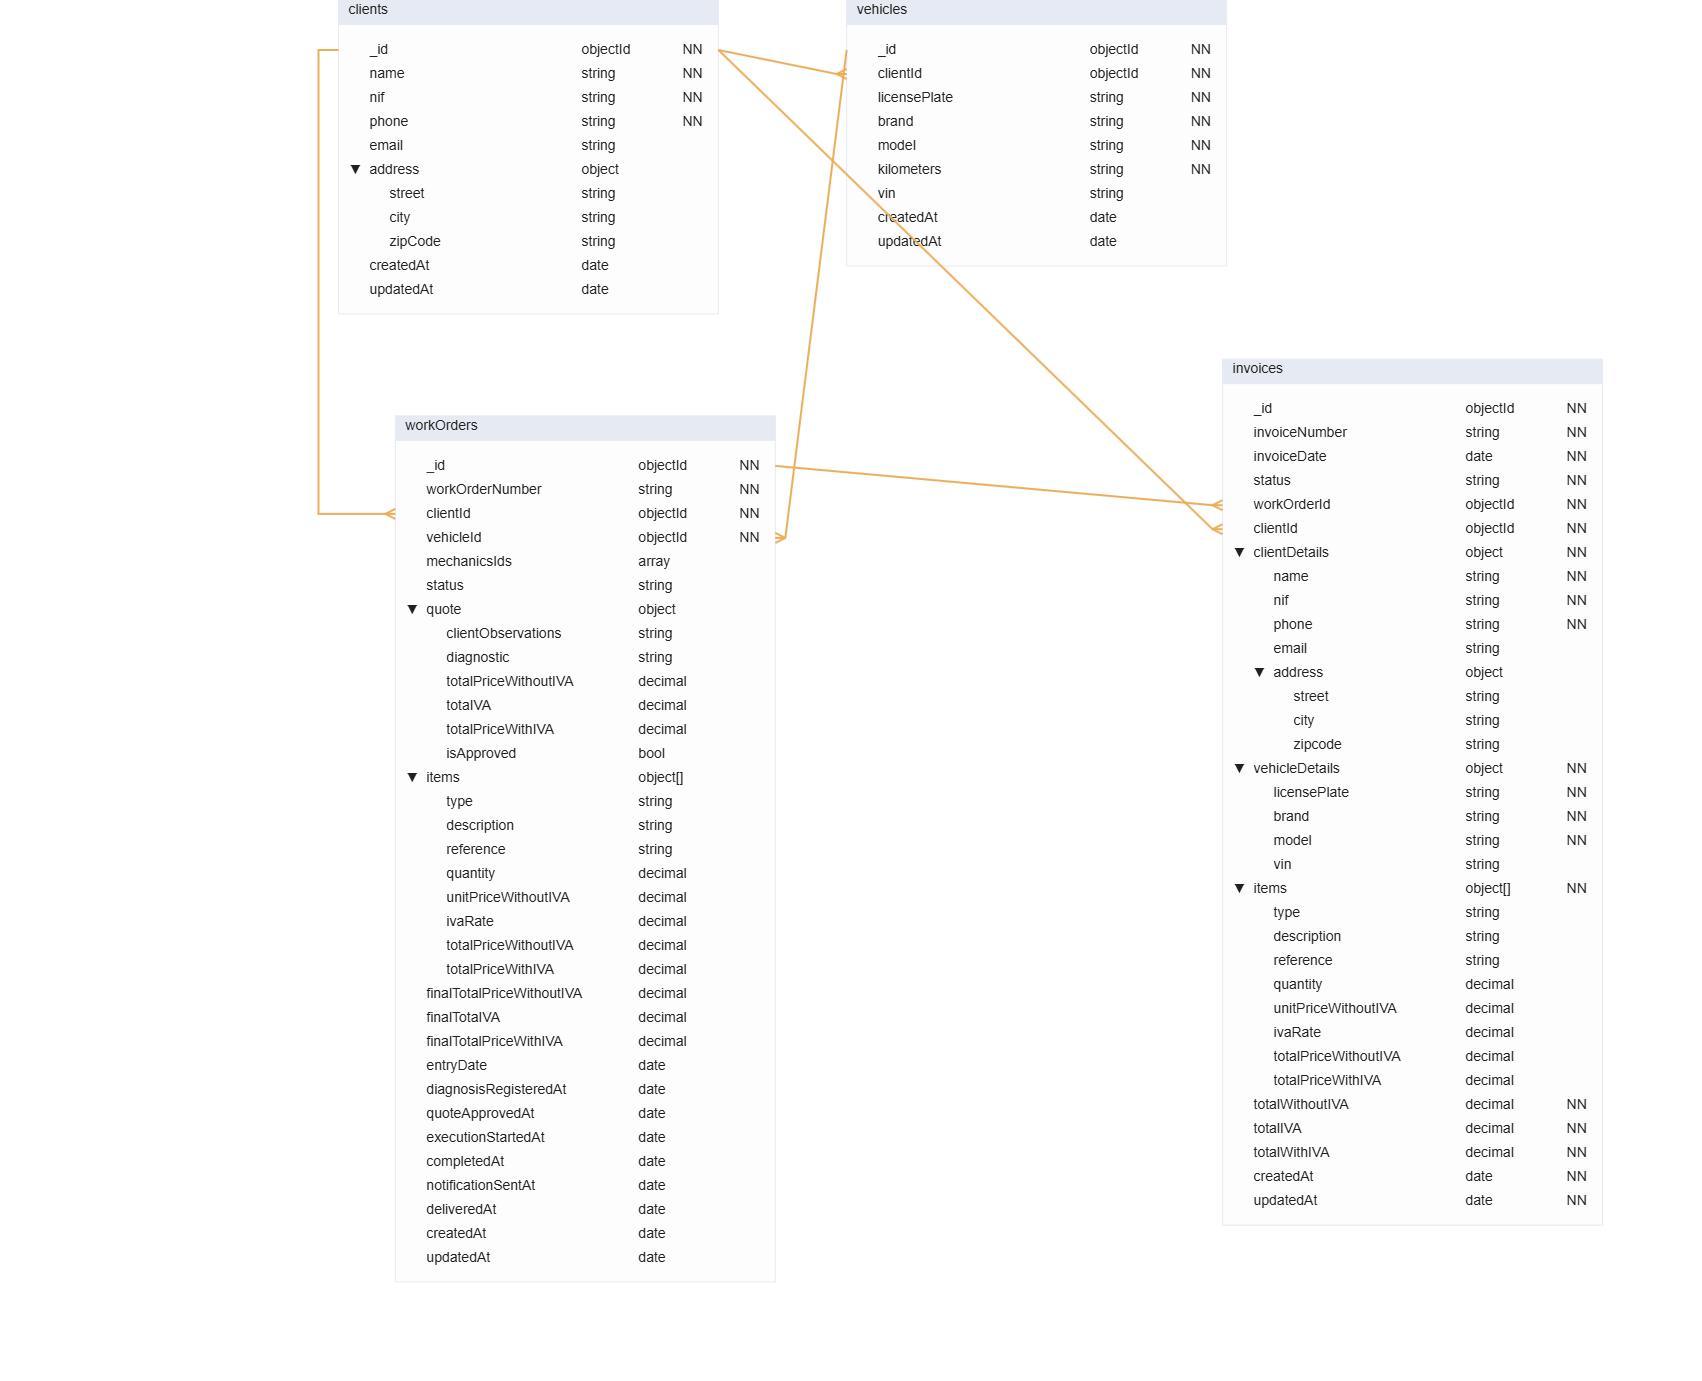
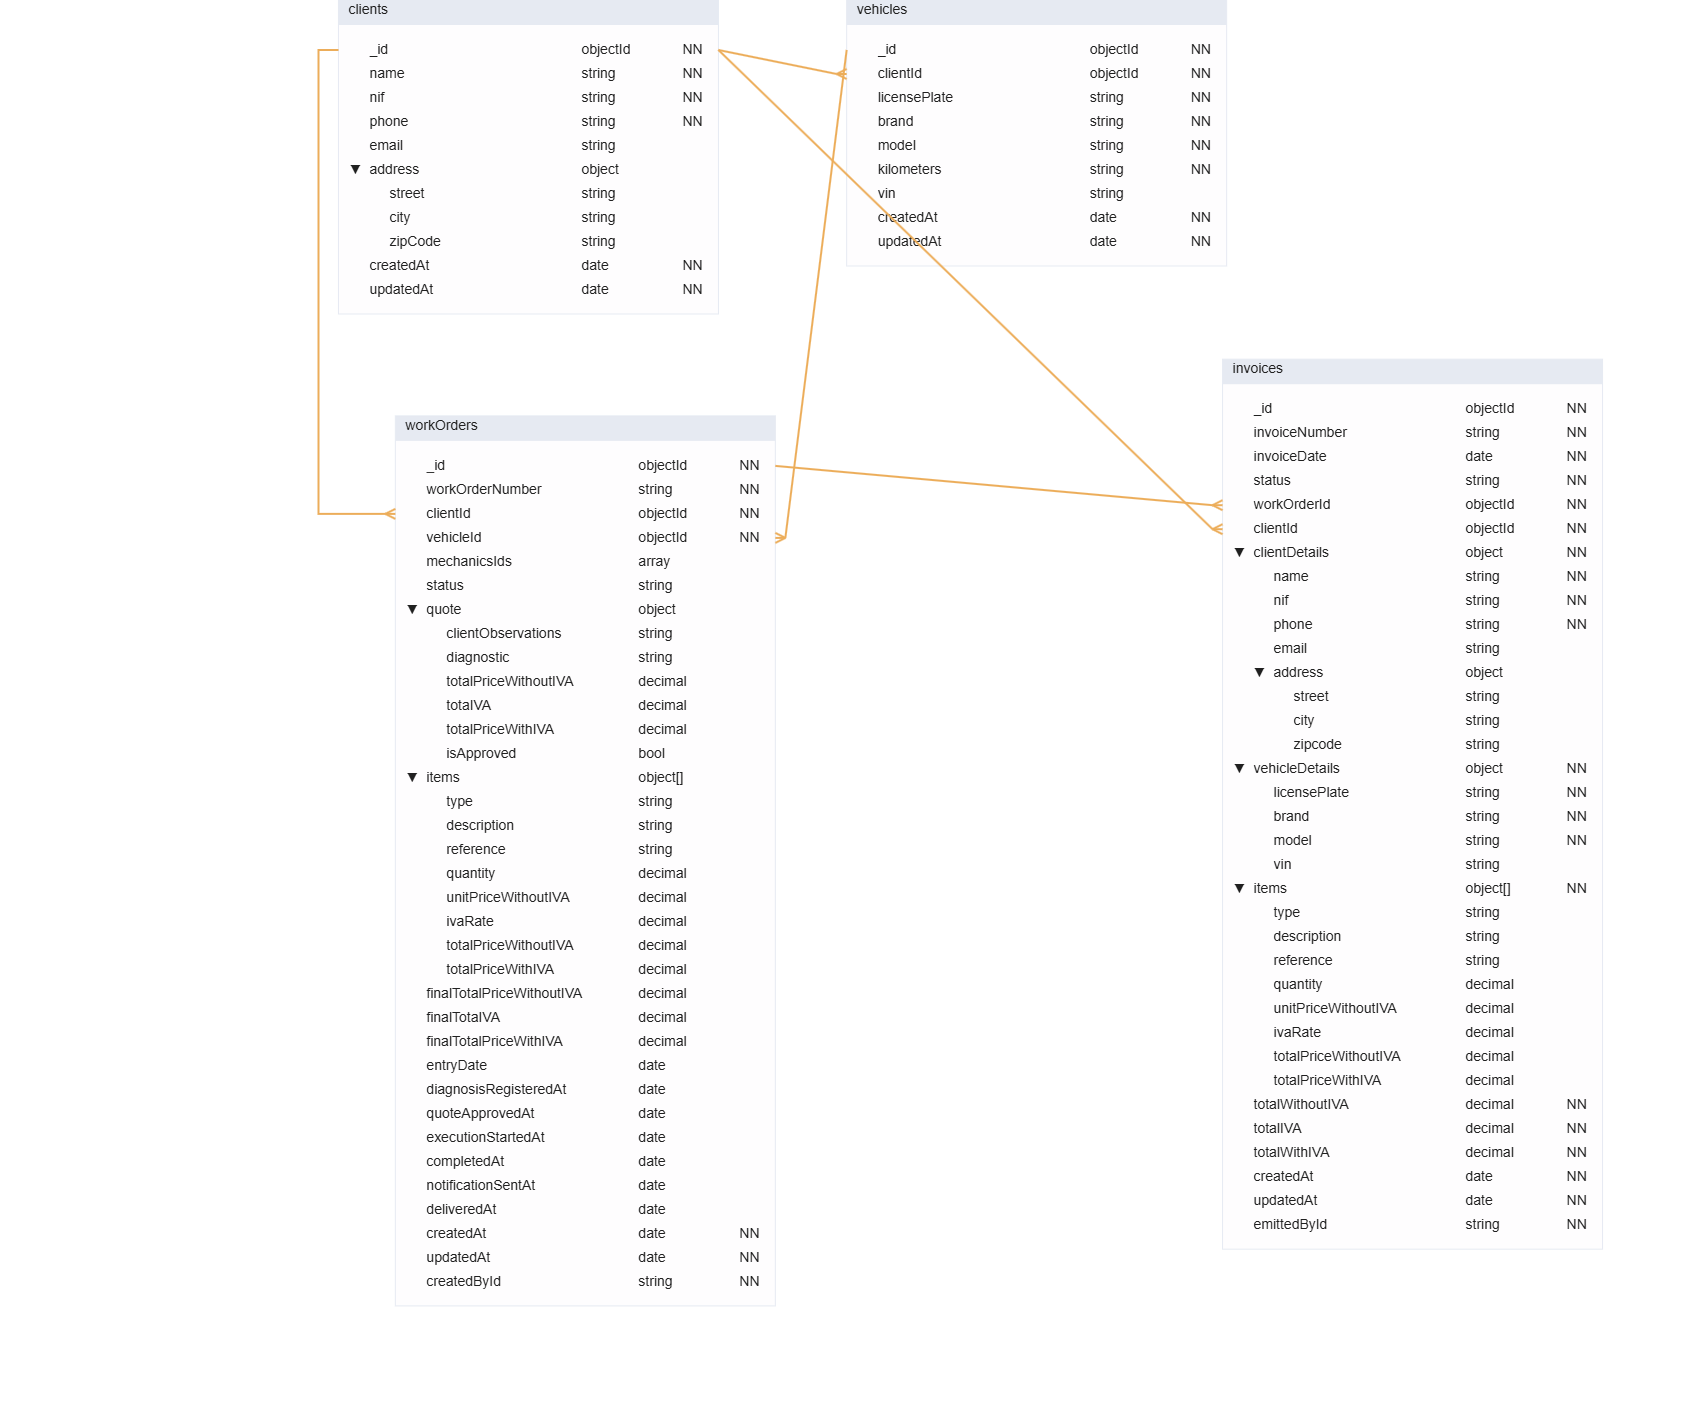
Updated the document and the Visual Schema. Added PostgreSQL User Integration to the document.

diff --git a/docs/database_architecture_mongodb.md b/docs/database_architecture_mongodb.md
@@ -85,24 +85,25 @@ This is the core collection, tracking the entire lifecycle of a repair job. It r
 
 ### Schema Definition
 
-| Field | Type | Required | Description |
-| :--- | :--- | :--- | :--- |
-| `_id` | `ObjectId` | ✓ | Unique document identifier. |
-| `workOrderNumber` | `String` | ✓ | Sequential, human-readable ID (e.g., "2025-0001"). |
-| `clientId` | `ObjectId` | ✓ | **Reference** to the `_id` in the `clients` collection. |
-| `vehicleId` | `ObjectId` | ✓ | **Reference** to the `_id` in the `vehicles` collection. |
-| `mechanicsIds` | `Array` | | Array of `String` (UUIDs) **referencing** the `users` table in PostgreSQL. |
-| `status` | `String` | ✓ | The current stage of the job. Must be one of: `AwaitingApproval`, `Approved`, `AwaitingParts`, `InProgress`, `Completed`, `Invoiced`, `Delivered`. |
-| `quote` | `Object` | | **Embedded** object for the diagnostic and budget. |
-| `items` | `Array` | | **Embedded** array of objects (see `items` schema below). |
-| `finalTotalPrice...` | `Decimal128` | | Final totals calculated from the `items` array. |
-| `entryDate` | `ISODate` | ✓ | Timestamp: Vehicle check-in. |
-| `diagnosisRegisteredAt`| `ISODate` | | Timestamp: Quote/diagnostic registered. |
-| `quoteApprovedAt` | `ISODate` | | Timestamp: Customer approval (RB06). |
-| `completedAt` | `ISODate` | | Timestamp: Work completed (triggers RB07). |
-| `deliveredAt` | `ISODate` | | Timestamp: Vehicle delivered to customer. |
-| `createdAt` | `ISODate` | ✓ | Timestamp when the document was created. |
-| `updatedAt` | `ISODate` | ✓ | Timestamp of the last update. |
+| Field                   | Type | Required | Description |
+|:------------------------| :--- |:---------| :--- |
+| `_id`                   | `ObjectId` | ✓        | Unique document identifier. |
+| `workOrderNumber`       | `String` | ✓        | Sequential, human-readable ID (e.g., "2025-0001"). |
+| `clientId`              | `ObjectId` | ✓        | **Reference** to the `_id` in the `clients` collection. |
+| `vehicleId`             | `ObjectId` | ✓        | **Reference** to the `_id` in the `vehicles` collection. |
+| `mechanicsIds`          | `Array` |          | Array of `String` (UUIDs) **referencing** the `users` table in PostgreSQL. |
+| `status`                | `String` | ✓        | The current stage of the job. Must be one of: `AwaitingApproval`, `Approved`, `AwaitingParts`, `InProgress`, `Completed`, `Invoiced`, `Delivered`. |
+| `quote`                 | `Object` |          | **Embedded** object for the diagnostic and budget. |
+| `items`                 | `Array` |          | **Embedded** array of objects (see `items` schema below). |
+| `finalTotalPrice...`    | `Decimal128` |          | Final totals calculated from the `items` array. |
+| `entryDate`             | `ISODate` | ✓        | Timestamp: Vehicle check-in. |
+| `diagnosisRegisteredAt` | `ISODate` |          | Timestamp: Quote/diagnostic registered. |
+| `quoteApprovedAt`       | `ISODate` |          | Timestamp: Customer approval (RB06). |
+| `completedAt`           | `ISODate` |          | Timestamp: Work completed (triggers RB07). |
+| `deliveredAt`           | `ISODate` |          | Timestamp: Vehicle delivered to customer. |
+| `createdAt`             | `ISODate` | ✓        | Timestamp when the document was created. |
+| `updatedAt`             | `ISODate` | ✓        | Timestamp of the last update. |
+| **`createdById`**       | **`String (UUID)`** | ✓        | **Reference to the user (PostgreSQL) who created the WO.** |
 
 ### Embedded Schema: `quote`
 
@@ -128,9 +129,11 @@ This is the core collection, tracking the entire lifecycle of a repair job. It r
 
 | Field(s) | Type | Purpose |
 | :--- | :--- | :--- |
-| `{ vehicleId: 1 }` | **Partial, Unique** | **Implements RB02**. `{"status": { "$nin": ["Completed", "Invoiced", "Delivered"] } }` <br> Ensures a vehicle has only ONE active work order. |
+| `{ vehicleId: 1 }` | **Partial, Unique** | **Implements RB02**. `{"status": { "$in": ["Draft", "AwaitingApproval", "Approved", "AwaitingParts", "InProgress"] } }` <br> Ensures a vehicle has only ONE active work order. |
 | `{ workOrderNumber: 1 }`| **Unique** | Fast lookup by the human-readable number. |
-| `{ status: 1 }` | Simple | Fast queries for the Dashboard (e.g., "all `InProgress` WOs"). |
+| `{ status: 1 }` | Simple | Optimizes simple queries by status (e.g., "all `InProgress` WOs"). |
+| `{ entryDate: -1 }` | Simple | Accelerates sorting by entry date (RF10). |
+| `{ status: 1, entryDate: -1 }` | **Compound** | **Optimizes complex Dashboard queries (RF10)**, filtering by `status` (e.g., 'InProgress') and sorting by date (newest/oldest). |
 | `{ clientId: 1 }` | Simple | Fast lookup for a client's full repair history. |
 | `{ mechanicsIds: 1 }` | Simple | Fast lookup for a mechanic's assigned tasks (Dashboard). |
 
@@ -143,21 +146,22 @@ Stores finalized, immutable billing records. This collection **"snapshots"** (co
 ### Schema Definition
 
 | Field | Type | Required | Description |
-| :--- | :--- | :--- | :--- |
-| `_id` | `ObjectId` | ✓ | Unique document identifier. |
-| `invoiceNumber` | `String` | ✓ | Sequential, official invoice number (e.g., "FT 2025/1"). |
-| `invoiceDate` | `ISODate` | ✓ | Date the invoice was officially emitted. |
-| `status` | `String` | ✓ | Enum: `Emitted`, `Paid`, `Canceled`. |
-| `workOrderId` | `ObjectId` | ✓ | **Reference** to the source `workOrders._id`. |
-| `clientId` | `ObjectId` | ✓ | **Reference** to the `clients._id`. |
-| `clientDetails` | `Object` | ✓ | **Snapshot** of client data at the time of invoicing. |
-| `vehicleDetails` | `Object` | ✓ | **Snapshot** of vehicle data at the time of invoicing. |
-| `items` | `Array` | ✓ | **Snapshot** (deep copy) of the `items` array from the work order. |
-| `totalWithoutIVA` | `Decimal128` | ✓ | **Snapshot** of the final total. |
-| `totalIVA` | `Decimal128` | ✓ | **Snapshot** of the final total. |
-| `totalWithIVA` | `Decimal128` | ✓ | **Snapshot** of the final total. |
-| `createdAt` | `ISODate` | ✓ | Timestamp when the invoice was created. |
-| `updatedAt` | `ISODate` | ✓ | Timestamp (e.g., when moving `status` to `Paid`). |
+| :--- | :--- |:---------| :--- |
+| `_id` | `ObjectId` | ✓        | Unique document identifier. |
+| `invoiceNumber` | `String` | ✓        | Sequential, official invoice number (e.g., "FT 2025/1"). |
+| `invoiceDate` | `ISODate` | ✓        | Date the invoice was officially emitted. |
+| `status` | `String` | ✓        | Enum: `Emitted`, `Paid`, `Canceled`. |
+| `workOrderId` | `ObjectId` | ✓        | **Reference** to the source `workOrders._id`. |
+| `clientId` | `ObjectId` | ✓        | **Reference** to the `clients._id`. |
+| `clientDetails` | `Object` | ✓        | **Snapshot** of client data at the time of invoicing. |
+| `vehicleDetails` | `Object` | ✓        | **Snapshot** of vehicle data at the time of invoicing. |
+| `items` | `Array` | ✓        | **Snapshot** (deep copy) of the `items` array from the work order. |
+| `totalWithoutIVA` | `Decimal128` | ✓        | **Snapshot** of the final total. |
+| `totalIVA` | `Decimal128` | ✓        | **Snapshot** of the final total. |
+| `totalWithIVA` | `Decimal128` | ✓        | **Snapshot** of the final total. |
+| `createdAt` | `ISODate` | ✓        | Timestamp when the invoice was created. |
+| `updatedAt` | `ISODate` | ✓        | Timestamp (e.g., when moving `status` to `Paid`). |
+| **`emittedById`** | **`String (UUID)`** | ✓        | **Reference to the user (PostgreSQL) who emitted the invoice.** |
 
 ### Business Logic (Application Layer)
 
@@ -171,3 +175,15 @@ Stores finalized, immutable billing records. This collection **"snapshots"** (co
 | `{ workOrderId: 1 }` | **Unique** | Ensures a work order can only be invoiced once. |
 | `{ clientId: 1 }` | Simple | Fast lookup for all invoices for a specific client. |
 | `{ invoiceDate: -1 }` | Simple | Fast sorting for financial reports (newest first). |
+
+---
+
+## 7. PostgreSQL User Integration (The "Hydration" Contract)**
+
+**This section defines the "contract" for handling user data, as specified in RNF02.**
+
+This MongoDB database **does not** store any user details (like names, emails, or roles) to maintain a single source of truth and respect the separation of concerns. User management is handled entirely by the separate PostgreSQL database and Authentication service.
+
+* **Strategy:** Fields such as `workOrders.mechanicsIds`, `workOrders.createdById`, and `invoices.emittedById` store the user's `UUID` (as a `String` type) from the PostgreSQL `users` table.
+
+* **The "Contract":** The backend service is responsible for **"data hydration"**. When a user's name is needed (e.g., displaying the mechanic's name on a work order in the UI), the StArranja service **must** query the User/Auth API using the stored UUID to fetch the user's current details. The MongoDB database *only* stores the reference ID.
